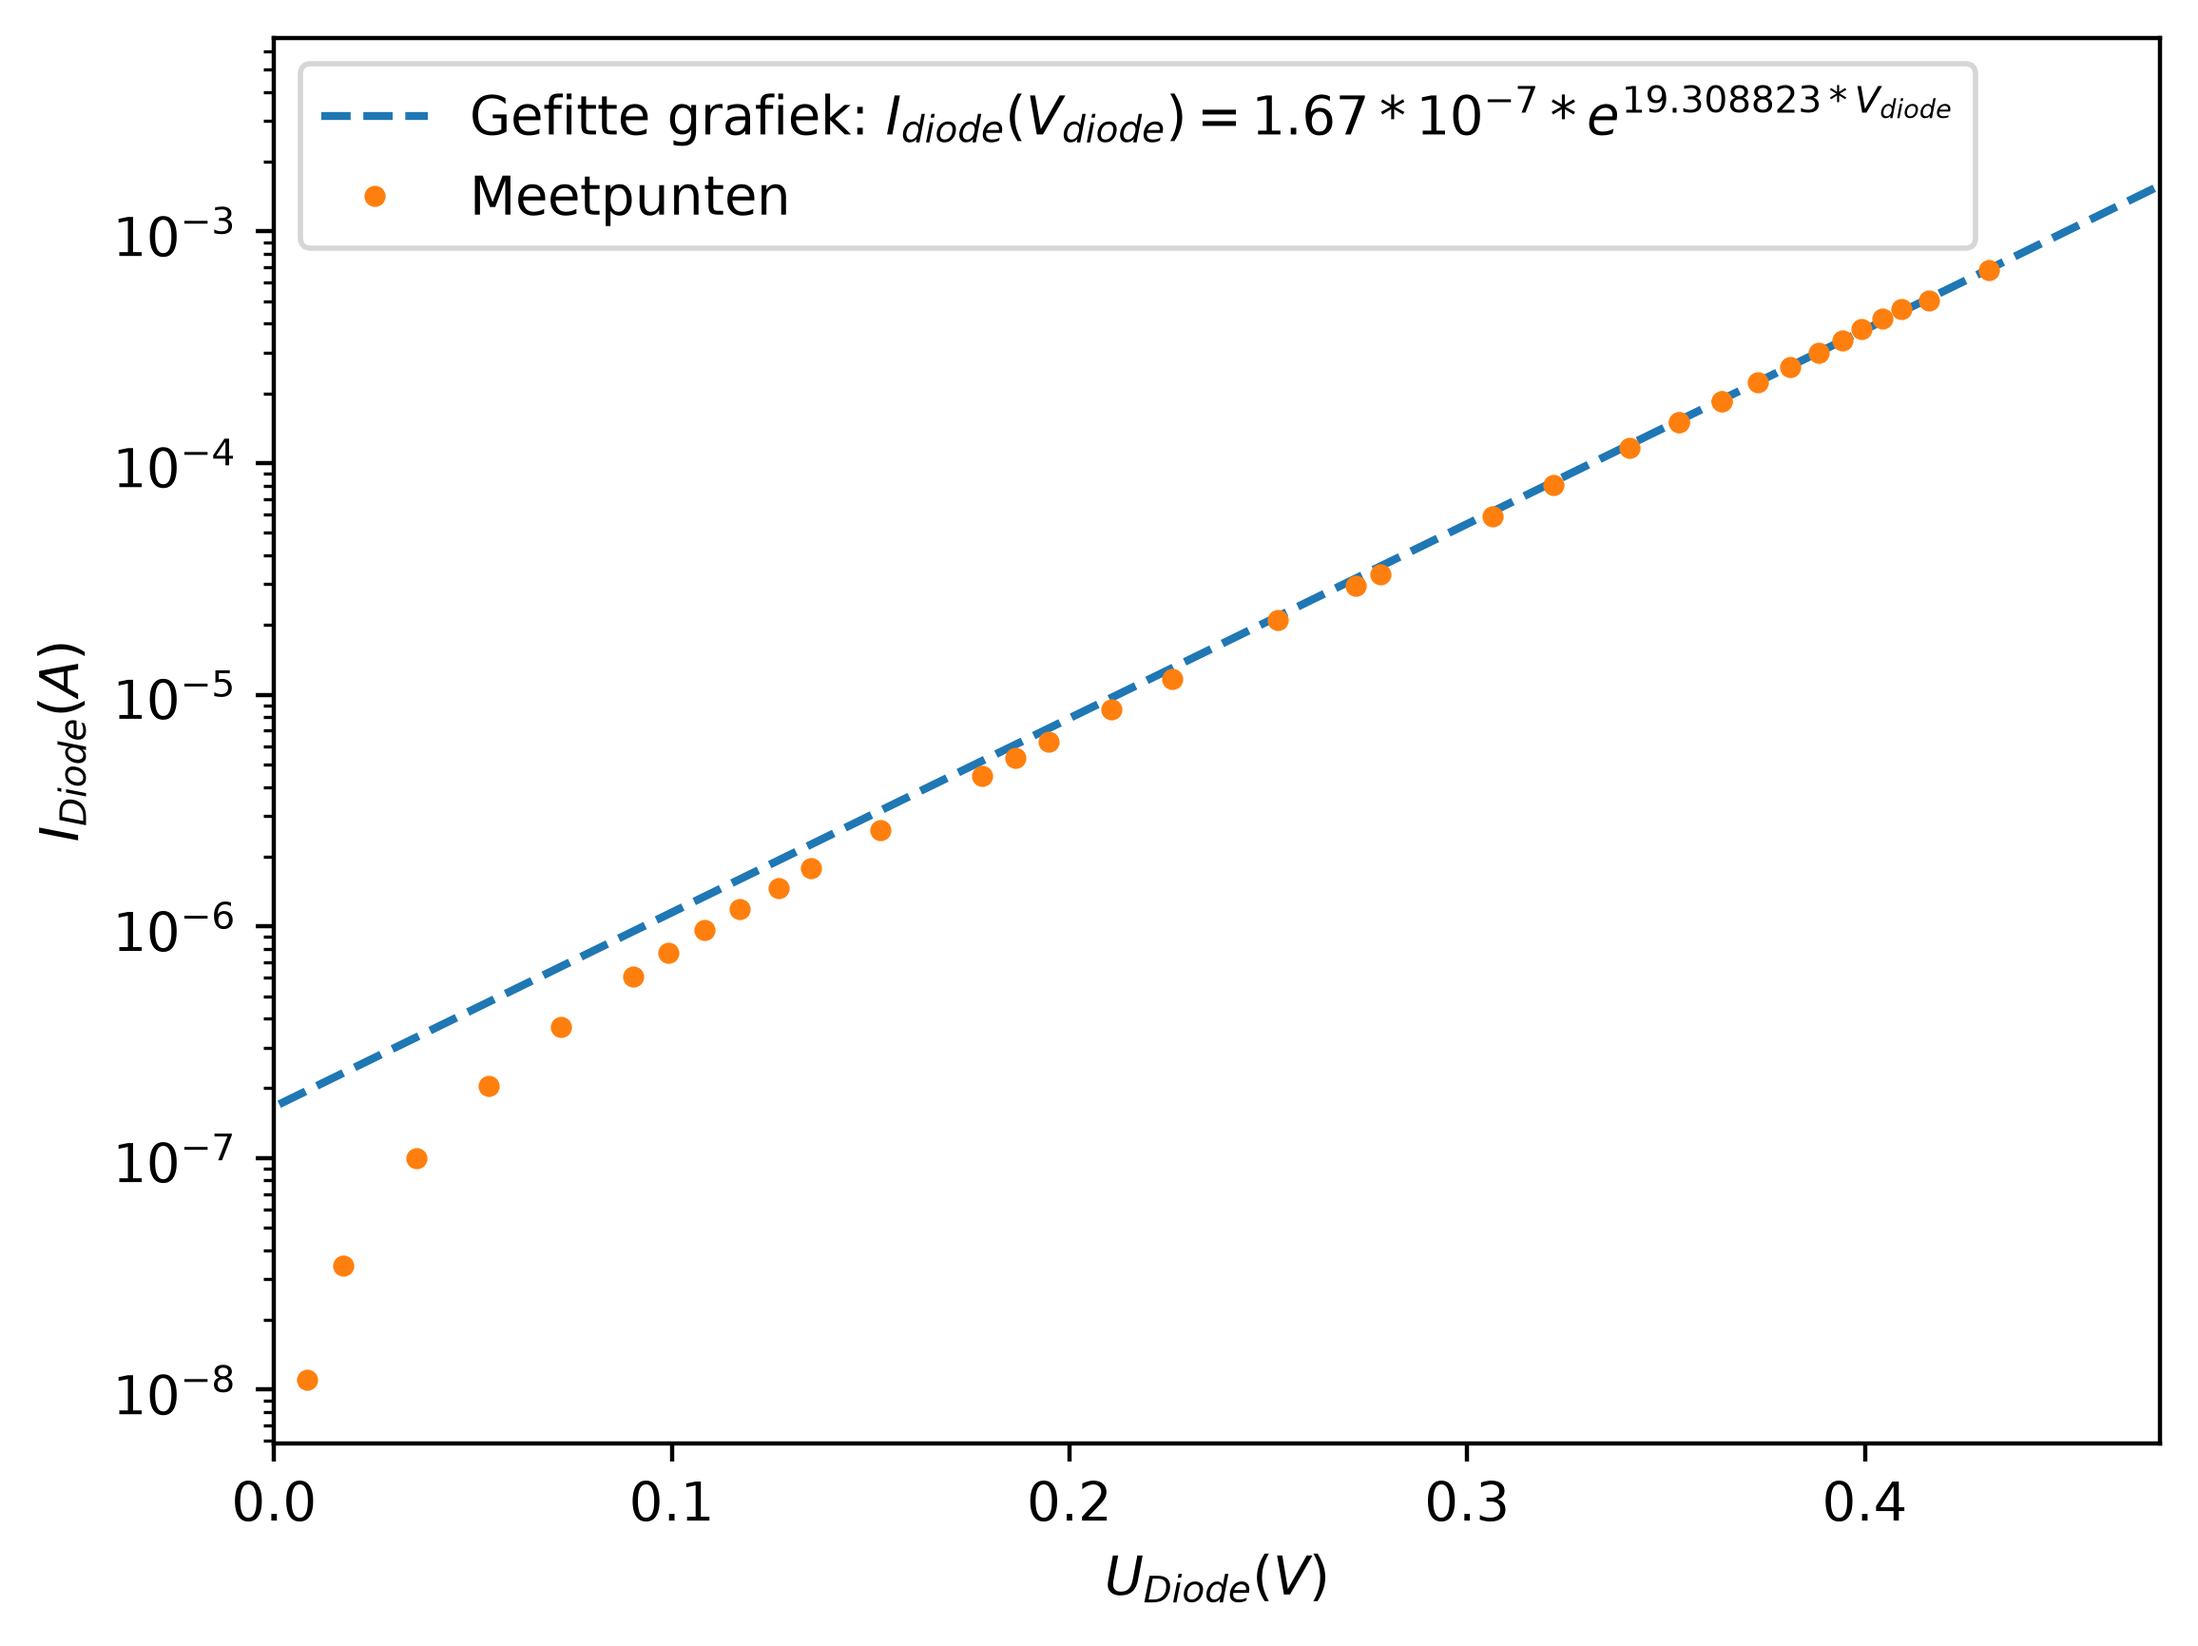
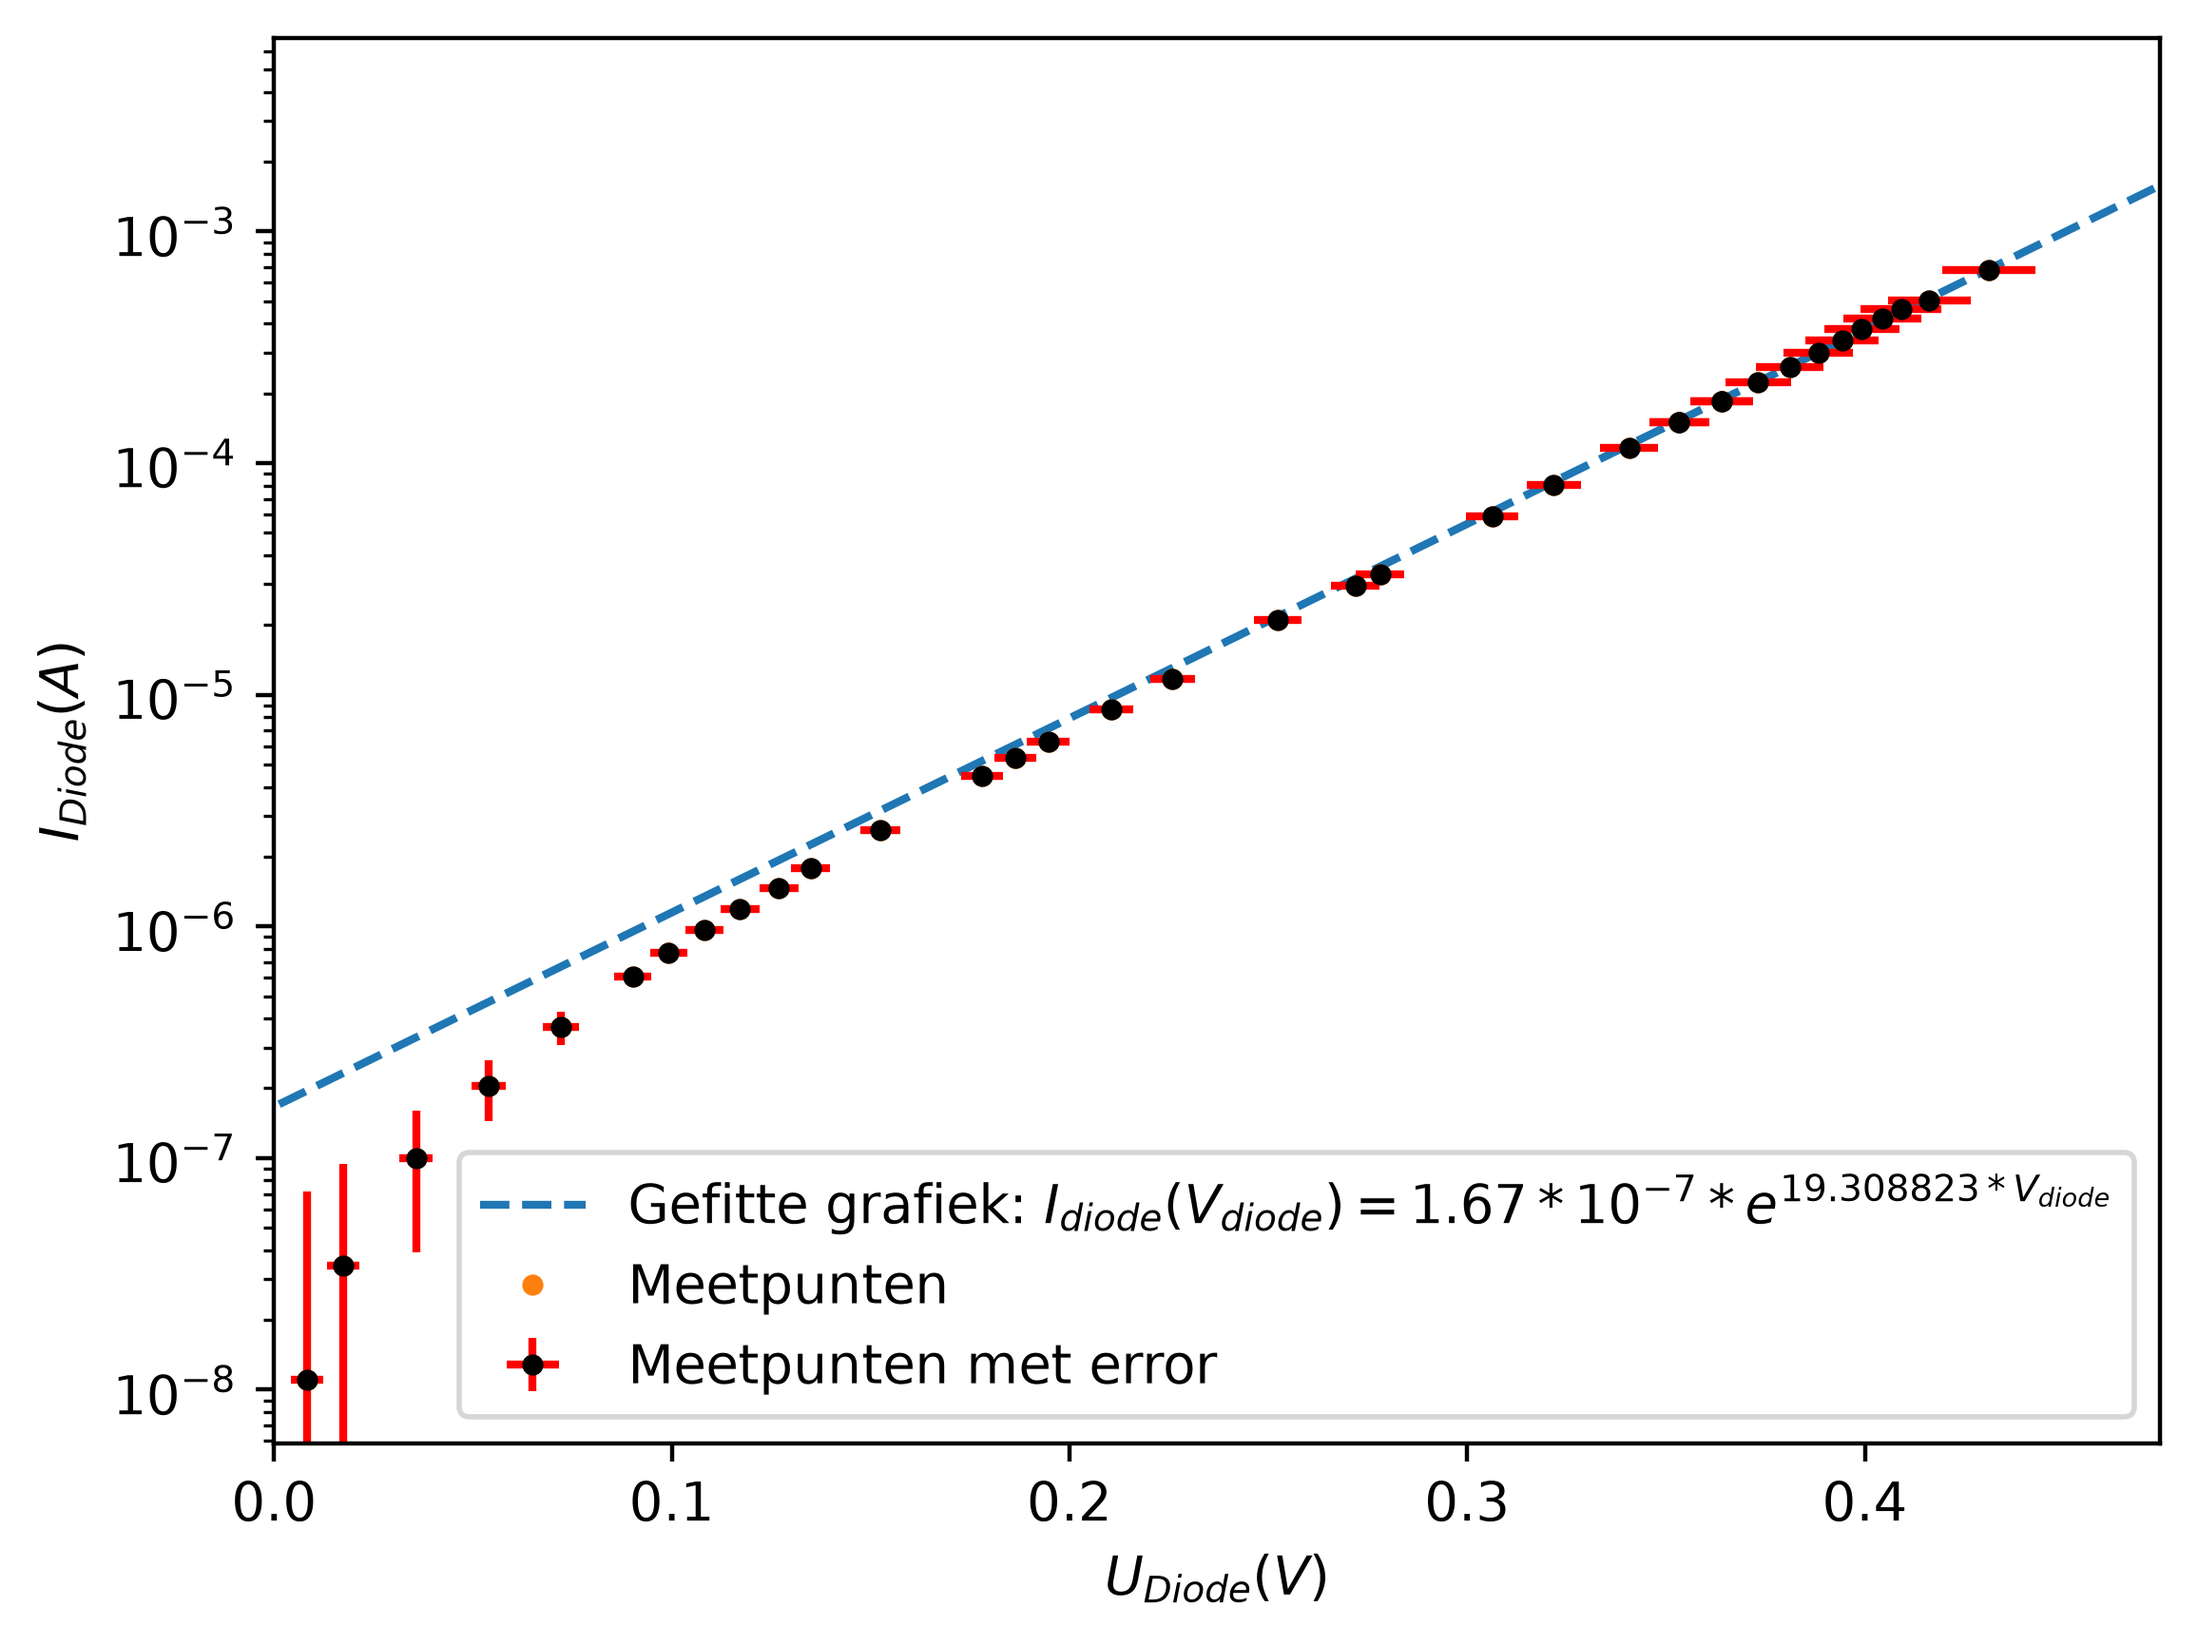
Aanpassing aan de x-as onzekerheid

diff --git a/simulations/NB2_brownianmotion.md b/simulations/NB2_brownianmotion.md
@@ -48,7 +48,7 @@ Als model gaan we uit van een deel van het volume van een fietsband die onder ee
 ```
 
 ```{solution} ex-recap-1
-### Kijken of dit op mijn branche staat###
+We nemen aan dat het een ideaal gas is. PV = nRT. Omschrijven levert V = nRT/P. Hierbij is T 293.15 graden Kelvin. P is $10^{6}$ pascal. R is de gasconstante, wat gelijk is aan $8.31446261815324 \; \mathrm{J/K/mol}$.Hierdoor krijg je de totale volume. Dit moet gedeeld worden door de constante van Avogadro voor de volume per molecuul. De ribbe is gelijk aan de derdemachtswortel van het volume. Het resultaat is $1.5933703218\cdot10^{-9}$. Dit komt dus inderdaad overeen met de ribben van een kubus met $1.6\; \mathrm{nm}$.
 ```
 
 De simulatie die we gaan maken bevat maar twee dimensies. We kunnen het oppervlak per deeltje in deze simulatie daarom kiezen als het zojuist berekende $V_\text{molecuul}^{2/3}$.
@@ -68,7 +68,7 @@ Ook deze heb je hierna nodig.
 ```
 
 ```{solution} ex-recap-2
-### Kamertemperatuur is rond de 20 graden. Dit is $293.15$ graden kelvin. De constante van Boltzmann is $1.380649\cdot10^{-23}$.Er zijn 2 dimensies: f is dus 2. Rechts van de streep staat $\frac{2}{2}\cdot1.380649\cdot10^{-23}\cdot293.15 = 4.047372544\cdot10^{-21}$. Een luchtmolecuul heeft een massa van $28.97$ unit, wat omgezet kan worden tot $4.81058\cdot10^{-26}$ kilogram. De snelheid is dan $\sqrt{\frac{4.047372544}{0.5\cdot4.81058\cdot10^{-26}}}$. Dit komt uit op $410.2068117\mathrm{m/s}$, wat afgerond $4\cdot10^{2} \mathrm{m/s}$ is.  ###
+Kamertemperatuur is rond de 20 graden. Dit is $293.15$ graden kelvin. De constante van Boltzmann is $1.380649\cdot10^{-23}$.Er zijn 2 dimensies: f is dus 2. Rechts van de streep staat $\frac{2}{2}\cdot1.380649\cdot10^{-23}\cdot293.15 = 4.047372544\cdot10^{-21}$. Een luchtmolecuul heeft een massa van $28.97$ unit, wat omgezet kan worden tot $4.81058\cdot10^{-26}$ kilogram. De snelheid is dan $\sqrt{\frac{4.047372544}{0.5\cdot4.81058\cdot10^{-26}}}$. Dit komt uit op $410.2068117\mathrm{m/s}$, wat afgerond $4\cdot10^{2} \mathrm{m/s}$ is. 
 ```
 
 ```{exercise} Radius
@@ -77,22 +77,34 @@ In de python cell hieronder staan enkele waarden gegeven. Het aantal deeltjes $N
 ```
 
 ```{solution} ex-recap-3
-### HHE ###
-```
+Ik heb het gezien, ook al weet ik niet per se wat de vraag is
 
 ```{exercise} DT
 :label: ex-recap-4
-Bekijk de waarde van `DT`. Hoe zorgt deze waaarde ervoor dat het onwaarschijnlijk is dat een botsing gemist wordt? Zet in het groene commentaar bij elke constante in welk eenheid deze wordt weergegeven.
+Bekijk de waarde van `DT`. Hoe zorgt deze waarde ervoor dat het onwaarschijnlijk is dat een botsing gemist wordt? Zet in het groene commentaar bij elke constante in welk eenheid deze wordt weergegeven.
 ```
 
 Onze simulatie modelleert dus een klein systeem zonder rekening te houden met de kracht tussen de luchtmoleculen. Je zult zien dat we toch al behoorlijk wat van de processor vragen om deze berekeningen te doen. Om een meer realistische modelsimulatie te maken is daarom een serieuze uitdaging, die veel wiskunde en programmeerervaring vraagt. Op dit ogenblik wordt dit bijvoorbeeld gevraagd bij een van de eerste opdrachten van het vak 'Computational Physics' van de master Applied Physics. 
 
+```python
+#Excersize 1
+P = 10*10**5 #10 bar  
+R=8.31446261815324   #gasconstante
+T = 273.15 + 20 #20 graden celsius
+vgedeeldn = T*R/P      #De volume per mol
+N_A=6.022*10**23 #Getal van avogadro
+Vtot= vgedeeldn/N_A       #Volume per molecuul
+ribbe = Vtot**(1/3)
+print(ribbe)
+print('Dit lijkt op 1.6 nanometer')
+```
+
 ```python tags=["NB2_init"] editable=true slideshow={"slide_type": ""}
-BOX_SIZE_0 = 10                # Hoogte en lengte startvolume
-N = 40                         # Aantal deeltjes
-V_0 = 1                        # Startsnelheid van deeltjes
-RADIUS = 0.3                   # Straal van moleculen
-DT = 0.1 * RADIUS / V_0        # Tijdstap om geen botsing te missen
+BOX_SIZE_0 = 10                # Hoogte en lengte startvolume in nanometer
+N = 40                         # Aantal deeltjes in geen eenheid
+V_0 = 1                        # Startsnelheid van deeltjes in meter per seconde
+RADIUS = 0.3                   # Straal van moleculen in nanometer
+DT = 0.1 * RADIUS / V_0        # Tijdstap om geen botsing te missen in nanoseconde
 ```
 
 ### Particle class
@@ -183,8 +195,7 @@ Leg uit dat d.m.v. onderstaande code de deeltjes allemaal dezelfde snelheid hebb
 ```
 
 ```{solution} ex-recap-5
-Jouw antwoord hier...
-### YOUR CODE HERE ###
+Alle deeltjes hebben een andere vx, maar de vy van de deeltjes zijn afhankelijk gemaakt van de vx. Deze is ook zo gemaakt dat er volgens Pythagoras eenzelfde snelheid ontstaat, maar met andere snelheden in de waarden. Vervolgens wordt er via de positielijn door een uniforme verdeling bepaald in de doos.
 ```
 
 ```python tags=["NB2_init"] editable=true slideshow={"slide_type": ""}
@@ -209,8 +220,7 @@ Leg uit hoe er in onderstaande code wordt voorkomen dat de botsing tussen twee d
 ```
 
 ```{solution} ex-recap-6
-Jouw antwoord hier...
-### YOUR CODE HERE ###
+Er worden 2 for loops uitgevoerd: De eerste for loops check, of er een botsing is tussen 2 particles per particles en de tweede forloop reageert op een botsing tussen de twee.
 ```
 
 ```python editable=true slideshow={"slide_type": ""} tags=["NB2_init"]
@@ -315,14 +325,20 @@ Voeg aan de simulatie een regel toe die voor elke tijdstap bepaalt wat de totale
 
 particles = []
 energy_tot = []
+kinetische = 0
 create_particles(particles)
 for i in range(100):
     take_time_step(particles)
+    kinetische=0
+    for j in range(len(particles)):
+        kinetische = kinetische + particles[j].m * 0.5 * V_0**2
+    energy_tot = np.cumsum(energy_tot,kinetische)
     # voeg de som van de kinetische energie in deze stap toe aan energy_tot 
     ### YOUR CODE HERE ###
 
+
 # plot de figuur van de kinetische energie als functie van de tijd. 
-### YOUR CODE HERE ###
+plt.plot(particles,energy_tot)
 ```
 
 ```{exercise} 
